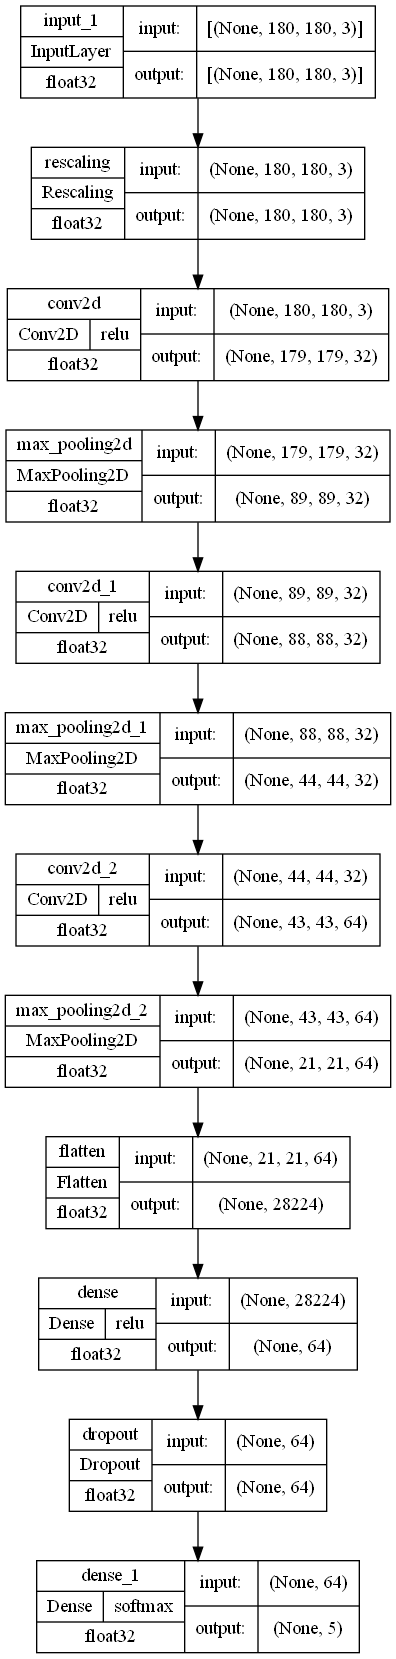
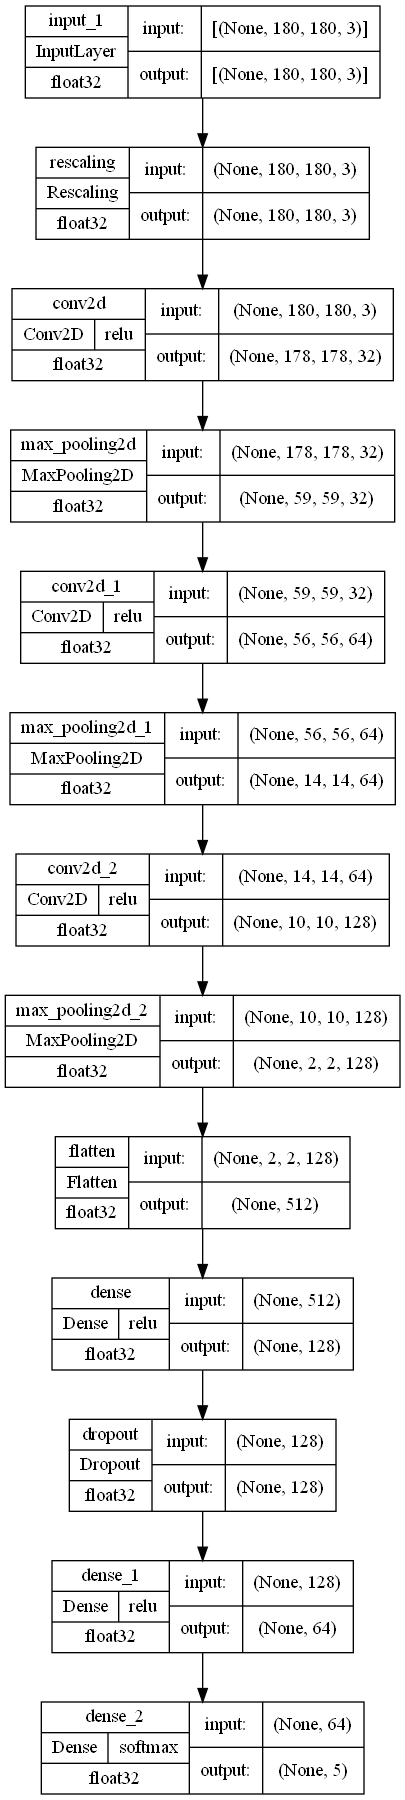
22:45 23.10.2020

Changed region(s): [[0.0, 0.0, 1.0, 1.0]]

diff --git a/train.py b/train.py
@@ -16,10 +16,8 @@ if __name__ == "__main__":
     data_dir = tf.keras.utils.get_file('flower_photos', origin=dataset_url, untar=True)
     data_dir = pathlib.Path(data_dir)
 
-    epochs = 15
-    optimizer = 'adam'
-
-    roses = list(data_dir.glob('roses/*'))
+    epochs = 25
+    optimizer = 'sgd'
 
     train_dataset = tf.keras.utils.image_dataset_from_directory(
         data_dir,
@@ -47,15 +45,16 @@ if __name__ == "__main__":
     model = keras.Sequential()
     model.add(InputLayer((180, 180, 3)))
     model.add(Rescaling(1. / 255))
-    model.add(Conv2D(32, (2, 2), activation='relu'))
-    model.add(MaxPooling2D(pool_size=(2, 2)))
-    model.add(Conv2D(32, (2, 2), activation='relu'))
-    model.add(MaxPooling2D(pool_size=(2, 2)))
-    model.add(Conv2D(64, (2, 2), activation='relu'))
-    model.add(MaxPooling2D(pool_size=(2, 2)))
+    model.add(Conv2D(32, (3, 3), activation='relu'))
+    model.add(MaxPooling2D(pool_size=(3, 3)))
+    model.add(Conv2D(64, (4, 4), activation='relu'))
+    model.add(MaxPooling2D(pool_size=(4, 4)))
+    model.add(Conv2D(128, (5, 5), activation='relu'))
+    model.add(MaxPooling2D(pool_size=(5, 5)))
     model.add(Flatten())
-    model.add(Dense(64, activation='relu'))
+    model.add(Dense(128, activation='relu'))
     model.add(Dropout(0.5))
+    model.add(Dense(64, activation='relu'))
     model.add(Dense(len(classes), activation='softmax'))
 
     plot_model(model,

diff --git a/predict.py b/predict.py
@@ -1,0 +1,13 @@
+import numpy as np
+from keras import models
+import os
+
+
+def predict(image):
+    os.environ['TF_CPP_MIN_LOG_LEVEL'] = '2'
+    os.environ['KMP_DUPLICATE_LIB_OK'] = 'True'
+    classes = {0: 'daisy', 1: 'dandelion', 2: 'roses', 3: 'sunflowers', 4: 'tulips'}
+    model = models.load_model("model/flowers_sgd_50.h5")
+    image = np.reshape(np.asarray(image), (1, 180, 180, 3))
+    flower_class = int(np.argmax(model.predict(image)))
+    return classes[flower_class]

diff --git a/main.py b/main.py
@@ -1,0 +1,13 @@
+import gradio as gr
+from predict import *
+
+
+def classify(image):
+    return predict(image)
+
+
+iface = gr.Interface(fn=classify,
+                     inputs=gr.Image(shape=(180, 180)),
+                     outputs="text")
+
+iface.launch(share=True)
